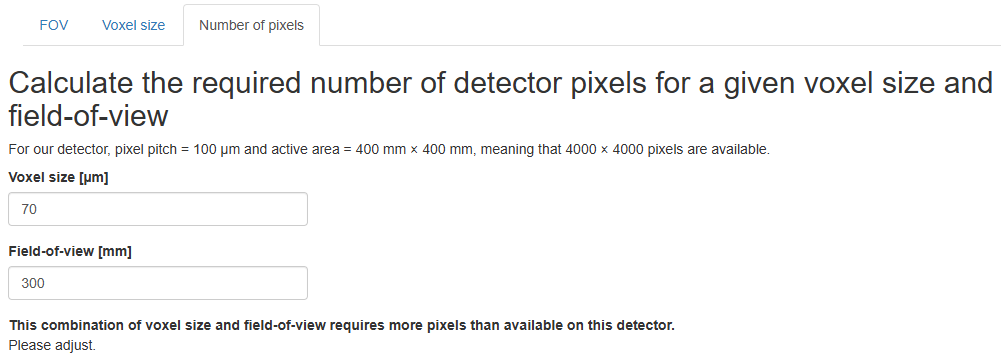
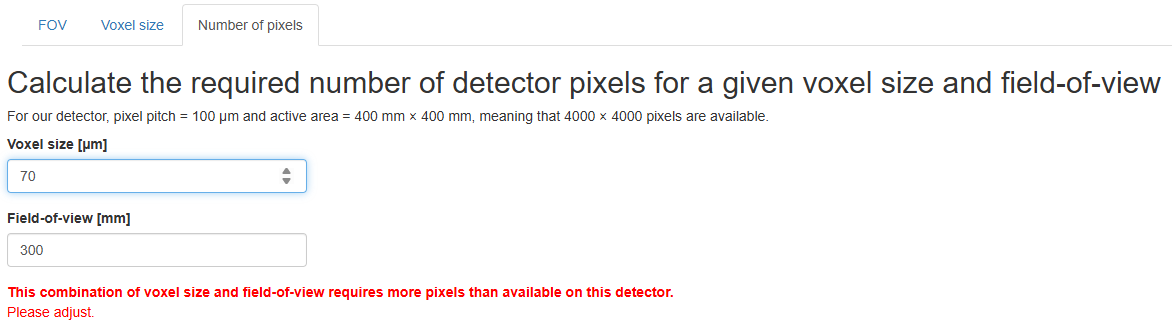
README: minor text edits app.R: error message in red, correct GitHub link

diff --git a/README.md b/README.md
@@ -1,6 +1,6 @@
 
 <!-- TOC ignore:true -->
-# CT-calculator_App
+# CT-calculator
 
 <!-- TOC ignore:true -->
 ## Table of content
@@ -42,7 +42,7 @@
 
 This repository contains a [**Shiny App**](CT-calculator_App/app.R) to calculate field-of-view, voxel size and number of pixels of CT scans acquired at the [IMPALA](https://www.leiza.de/forschung/infrastrukturen/labore/impala) / [VOXEL](https://www.leiza.de/forschung/infrastrukturen/labore/voxel-labor-fuer-volumetric-x-ray-examinations-at-leiza). 
 
-Some settings are dependent on the detector, meaning that the calculations are only valid for CT scanners with a detector similar to the one on our Phoenix v|tome|x L450 CT scanner, with pixel size = 100 µm and active area = 400 $\times$ 400 mm.
+Some settings are dependent on the detector, meaning that the calculations are only valid for CT scanners with a detector similar to the one on our Phoenix v|tome|x L450 CT scanner, with pixel pitch = 100 µm and active area = 400 $\times$ 400 mm.
 
 If you would like to adapt the App to your needs, check the sections [How to adapt the App](#how-to-adapt-the-app), [How to contribute](#how-to-contribute) and [License](#license).
 
@@ -109,7 +109,7 @@ $FOV(mm) = \frac{DetectorArea(mm) \times VoxelSize(µm)}{PixelPitch(µm)} = \fra
 
 $VoxelSize(µm) = \frac{FOV(mm) \times PixelPitch(µm)}{DetectorArea(mm)} = \frac{PixelPitch(µm)}{Magnification}$
 
-$\#pixels = \frac{FOV(mm)}{VoxelSize(µm)} \times 1000 = \frac{DetectorArea(mm)}{PixelPitch(µm)} \times 1000$
+$NumberPixels = \frac{FOV(mm)}{VoxelSize(µm)} \times 1000 = \frac{DetectorArea(mm)}{PixelPitch(µm)} \times 1000$
 
 with $Magnification = \frac{ImageSize(mm)}{ObjectSize(mm)} = \frac{FDD(mm)}{FOD(mm)}$
 
